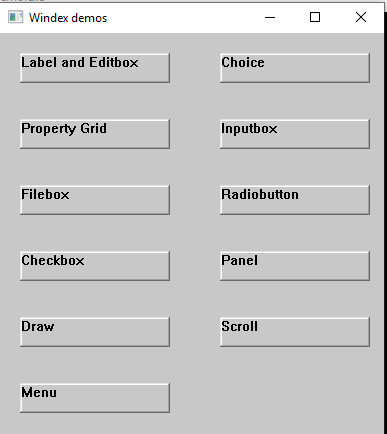
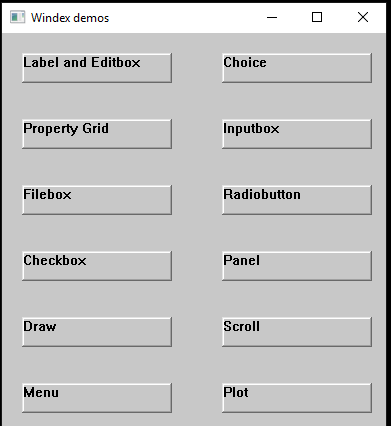
Add plot demo

Changed region(s): [[0.0, 0.0, 1.0, 1.0]]

diff --git a/demo/demo.cpp b/demo/demo.cpp
@@ -3,6 +3,7 @@
 #include "wex.h"
 #include "propertygrid.h"
 #include "inputbox.h"
+#include "plot2d.h"
 using namespace wex;
 
 void helloworld()
@@ -386,6 +387,45 @@ void MenuDemo()
     form.show();
 }
 
+void PlotDemo()
+{
+        wex::gui& fm = wex::windex::topWindow();
+        fm.move( {50,50,1200,600} );
+
+        // construct plot to be drawn on form
+        wex::plot::plot& thePlot = wex::make<wex::plot::plot>( fm );
+        thePlot.move( {30,30,1200,600});
+        //thePlot.Grid( true );
+
+        // resize plot when form resizes
+        fm.events().resize([&](int w, int h )
+        {
+            thePlot.move( {30,30,w,h} );
+            thePlot.update();
+        });
+
+        // construct plot traces
+        wex::plot::trace& t1 = thePlot.AddStaticTrace();
+        wex::plot::trace& t2 = thePlot.AddStaticTrace();
+
+        // provide some data for first trace
+        std::vector< double > d1 { 10, 15, 20, 25, 30, 25, 20, 15, 10 };
+        t1.set( d1 );
+
+        // plot in blue
+        t1.color( 0x0000FF );
+
+        // provide data for second trace
+        std::vector< double > d2 { 20, 30, 40, 50, 60, 50, 40, 30, 20 };
+        t2.set( d2 );
+
+        // plot in red
+        t2.color( 0xFF0000 );
+
+        // show and run
+        fm.show();
+}
+
 int main()
 {
 
@@ -485,6 +525,14 @@ int main()
     btnmenu.events().click([&]
     {
         MenuDemo();
+    });
+
+    button& btnplot = wex::make<button>( l );
+    btnplot.move(  { 150, 30 }, false );
+    btnplot.text( "Plot" );
+    btnplot.events().click([&]
+    {
+        PlotDemo();
     });
 
     // show the application
